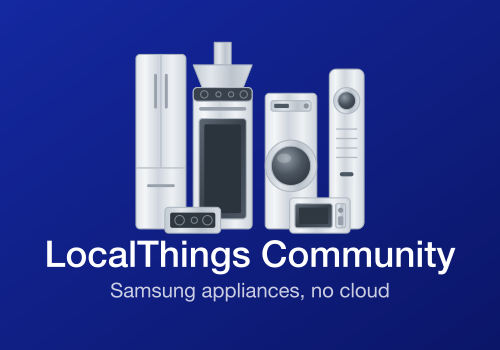
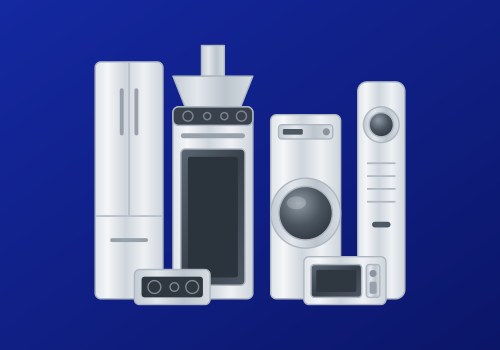
Release 0.5.0: rename to SmartThings Local, and take the text out of the store image
Both from App Store review.

The name loses "Community" — the store already distinguishes community apps from
verified ones through the developer badge, so the word did no work. Review proposed
"SmartThings Local"; Korean follows it as "스마트싱스 로컬". Renamed everywhere a user
reads it, not only in the manifest: the pairing view and the repair view both tell
people to go to Settings → Apps → <name>, and instructions naming an app that no
longer exists are worse than no instructions.

The store image had the name and a tagline rendered into the artwork, which review
read as a marketing card rather than a picture of what the app does — and fairly: the
store already shows the name beside the image. The text is gone at source, so the
generator can no longer reintroduce it, and the appliance group now takes most of the
frame rather than sharing it. A small illustration floating in a large gradient reads
as a logo, which is the other thing 1.4 rejects.

The app id is unchanged, so existing installations, devices and Flows are untouched.

diff --git a/drivers/appliance/repair/reconnect.html b/drivers/appliance/repair/reconnect.html
@@ -102,9 +102,9 @@
       fHost: 'IP address', fPort: 'DTLS port', fSerial: 'Serial', fCert: 'Certificate',
       certOk: 'valid until {0}', certNone: 'not configured', certBad: 'has a problem',
       certExpired: 'expired {0}',
-      certNoneMsg: 'Set a certificate up in Settings → Apps → LocalThings Community first; nothing here can connect without one.',
+      certNoneMsg: 'Set a certificate up in Settings → Apps → SmartThings Local first; nothing here can connect without one.',
       certBadMsg: 'The stored certificate is unusable: {0}',
-      certExpiredMsg: 'Mint a new certificate and paste it in Settings → Apps → LocalThings Community. Appliances reject an expired one.',
+      certExpiredMsg: 'Mint a new certificate and paste it in Settings → Apps → SmartThings Local. Appliances reject an expired one.',
       actionsTitle: 'Reconnect',
       actionsLede: 'Start with a test. If the appliance has moved to a new address, searching finds it again by serial number — the serial does not change when the IP does.',
       test: 'Test connection', find: 'Search the network',
@@ -130,9 +130,9 @@
       fHost: 'IP 주소', fPort: 'DTLS 포트', fSerial: '시리얼', fCert: '인증서',
       certOk: '{0}까지 유효', certNone: '설정되지 않음', certBad: '문제 있음',
       certExpired: '{0}에 만료됨',
-      certNoneMsg: '먼저 설정 → 앱 → 로컬띵스 커뮤니티에서 인증서를 등록하세요. 인증서 없이는 어떤 방법으로도 연결되지 않습니다.',
+      certNoneMsg: '먼저 설정 → 앱 → 스마트싱스 로컬에서 인증서를 등록하세요. 인증서 없이는 어떤 방법으로도 연결되지 않습니다.',
       certBadMsg: '저장된 인증서를 사용할 수 없습니다: {0}',
-      certExpiredMsg: '인증서를 새로 발급해 설정 → 앱 → 로컬띵스 커뮤니티에 붙여넣으세요. 만료된 인증서는 가전이 거부합니다.',
+      certExpiredMsg: '인증서를 새로 발급해 설정 → 앱 → 스마트싱스 로컬에 붙여넣으세요. 만료된 인증서는 가전이 거부합니다.',
       actionsTitle: '다시 연결',
       actionsLede: '먼저 연결을 확인해보세요. 가전의 주소가 바뀌었다면 검색이 시리얼 번호로 다시 찾아냅니다 — IP가 바뀌어도 시리얼은 변하지 않습니다.',
       test: '연결 확인', find: '네트워크에서 찾기',

diff --git a/drivers/appliance/pair/configure.html b/drivers/appliance/pair/configure.html
@@ -192,9 +192,9 @@
       setupLede: 'This app needs a client certificate before it can reach your appliances. It is a one-time setup and covers every Samsung appliance on your network.',
       setupSteps: [
         'Close this window.',
-        'Go to <b>Settings → Apps → LocalThings Community</b>.',
+        'Go to <b>Settings → Apps → SmartThings Local</b>.',
         'Follow the instructions there to obtain and paste a certificate.',
-        'Come back to <b>Devices → Add device → LocalThings Community</b>.',
+        'Come back to <b>Devices → Add device → SmartThings Local</b>.',
       ],
       searchTitle: 'Find appliances',
       searchLede: 'Scans your network for Samsung appliances that speak the local protocol, then identifies each one. Takes under a minute.',
@@ -244,9 +244,9 @@
       setupLede: '가전에 연결하려면 클라이언트 인증서가 먼저 필요합니다. 최초 1회만 하면 되고, 집 안 모든 삼성 가전에 적용됩니다.',
       setupSteps: [
         '이 창을 닫습니다.',
-        '<b>설정 → 앱 → 로컬띵스 커뮤니티</b>로 이동합니다.',
+        '<b>설정 → 앱 → 스마트싱스 로컬</b>로 이동합니다.',
         '거기 안내에 따라 인증서를 발급해 붙여넣습니다.',
-        '다시 <b>기기 → 기기 추가 → 로컬띵스 커뮤니티</b>로 돌아옵니다.',
+        '다시 <b>기기 → 기기 추가 → 스마트싱스 로컬</b>로 돌아옵니다.',
       ],
       searchTitle: '가전 검색',
       searchLede: '로컬 프로토콜을 사용하는 삼성 가전을 네트워크에서 찾아 종류까지 확인합니다. 1분 이내에 끝납니다.',

diff --git a/settings/index.html b/settings/index.html
@@ -2,7 +2,7 @@
 <html lang="en">
 <head>
   <meta charset="UTF-8">
-  <title>LocalThings Community</title>
+  <title>SmartThings Local</title>
   <script src="/homey.js" data-origin="settings"></script>
   <style>
     :root {
@@ -94,7 +94,7 @@
     </div>
 
     <div class="card">
-      <h1 id="t-title">LocalThings Community</h1>
+      <h1 id="t-title">SmartThings Local</h1>
       <p id="t-lede"></p>
       <div class="status">
         <div id="dot" class="dot idle"></div>

diff --git a/scripts/make_store_images.py b/scripts/make_store_images.py
@@ -7,11 +7,16 @@ rather than composed three times — that is what makes them identical instead o
 merely similar. Driver images are a different shape and rule; see
 make_driver_images.py.
 
-The card shows the appliance group, not the app's mark. Guideline 1.4 rejects an
-app image that is "a single flat shape or icon on a plain, monochrome or
-transparent background" and says to avoid "logos, clipart, or icon-type images" —
-which the earlier icon-on-gradient version was exactly. The group is shared with
-the driver images so the two cannot drift apart.
+The card shows the appliance group and nothing else. Guideline 1.4 rejects an app
+image that is "a single flat shape or icon on a plain, monochrome or transparent
+background" and says to avoid "logos, clipart, or icon-type images", which the
+original icon-on-gradient version was exactly.
+
+**No text.** An earlier version set the app name and a tagline into the artwork, and
+review rejected it: rendered text makes the image read as a marketing card rather
+than as a representative picture of what the app does. The name is already shown
+beside the image by the store. The group is shared with the driver images so the two
+cannot drift apart.
 """
 
 import subprocess
@@ -27,35 +32,25 @@ OUT.mkdir(parents=True, exist_ok=True)
 
 BLUE = "#1428A0"
 DEEP = "#0B1668"
-WORDMARK = "LocalThings Community"
-TAGLINE = "Samsung appliances, no cloud"
 
 SIZES = {"small": (250, 175), "large": (500, 350), "xlarge": (1000, 700)}
 
-# Proportions of the frame height, so the composition survives any render size.
-GROUP_HEIGHT = 0.545   # appliance group
-TITLE_SIZE = 0.105
-TAGLINE_SIZE = 0.058
-GROUP_TOP = 0.121
-TITLE_GAP = 0.92       # multiples of the title size below the group's baseline
-TAGLINE_GAP = 1.5      # multiples of the tagline size below the title baseline
+# Proportions of the frame height, so the composition survives any render size. With
+# the text gone the group is the whole subject, so it takes most of the frame instead
+# of sharing it — a small illustration floating in a large gradient reads as a logo,
+# which is the other thing 1.4 rejects.
+GROUP_HEIGHT = 0.74
+GROUP_TOP = 0.13
 
 
 def card(width: int, height: int) -> str:
     group_height = height * GROUP_HEIGHT
     scale = group_height / INK_HEIGHT
     top = height * GROUP_TOP
-    # Place the group's *ink* rather than its 1000x1000 canvas: the canvas has
-    # uneven margins, so centring it would leave the group visibly off-centre.
+    # Place the group's *ink* rather than its 1000x1000 canvas: the canvas has uneven
+    # margins, so centring it would leave the group visibly off-centre.
     x = width / 2 - (INK_LEFT + INK_WIDTH / 2) * scale
     y = top - INK_TOP * scale
-
-    title = height * TITLE_SIZE
-    tagline = height * TAGLINE_SIZE
-    # Baselines sit just under the group, so the text reads as part of the image
-    # rather than as a separate block at the bottom of the frame.
-    title_y = top + group_height + title * TITLE_GAP
-    tagline_y = title_y + tagline * TAGLINE_GAP
 
     return f"""<svg xmlns="http://www.w3.org/2000/svg" width="{width}" height="{height}"
      viewBox="0 0 {width} {height}">
@@ -66,12 +61,6 @@ def card(width: int, height: int) -> str:
     </linearGradient>{DEFS}  </defs>
   <rect width="{width}" height="{height}" fill="url(#bg)"/>
   <g transform="translate({x:.2f} {y:.2f}) scale({scale:.5f})">{GROUP}  </g>
-  <text x="{width / 2}" y="{title_y:.1f}" text-anchor="middle"
-        font-family="Helvetica Neue, Helvetica, Arial, sans-serif"
-        font-size="{title:.1f}" font-weight="600" fill="#FFFFFF">{WORDMARK}</text>
-  <text x="{width / 2}" y="{tagline_y:.1f}" text-anchor="middle"
-        font-family="Helvetica Neue, Helvetica, Arial, sans-serif"
-        font-size="{tagline:.1f}" fill="#FFFFFF" opacity="0.78">{TAGLINE}</text>
 </svg>
 """
 

diff --git a/docs/CA-SETUP.md b/docs/CA-SETUP.md
@@ -18,7 +18,7 @@ UUID는 **가전이 아니라 삼성 게이트웨이**에서 오는 값이므로
 
 ## 사용자 절차
 
-앱 안에도 같은 안내가 있습니다: **설정 → 앱 → 로컬띵스 커뮤니티**. 인증서가 없으면 기기 추가 화면도 이 위치를 안내하고 멈춥니다.
+앱 안에도 같은 안내가 있습니다: **설정 → 앱 → 스마트싱스 로컬**. 인증서가 없으면 기기 추가 화면도 이 위치를 안내하고 멈춥니다.
 
 ### 1. 인증서 발급 (컴퓨터에서 1회)
 
@@ -64,7 +64,7 @@ OUT_DIR=./certs TARGET_IP=192.168.1.90 \
 
 ### 3. 가전 추가
 
-**기기 → 기기 추가 → 로컬띵스 커뮤니티** → 가전 IP 입력. 포트는 자동 탐색합니다.
+**기기 → 기기 추가 → 스마트싱스 로컬** → 가전 IP 입력. 포트는 자동 탐색합니다.
 
 ## 보안상 알아둘 것
 
